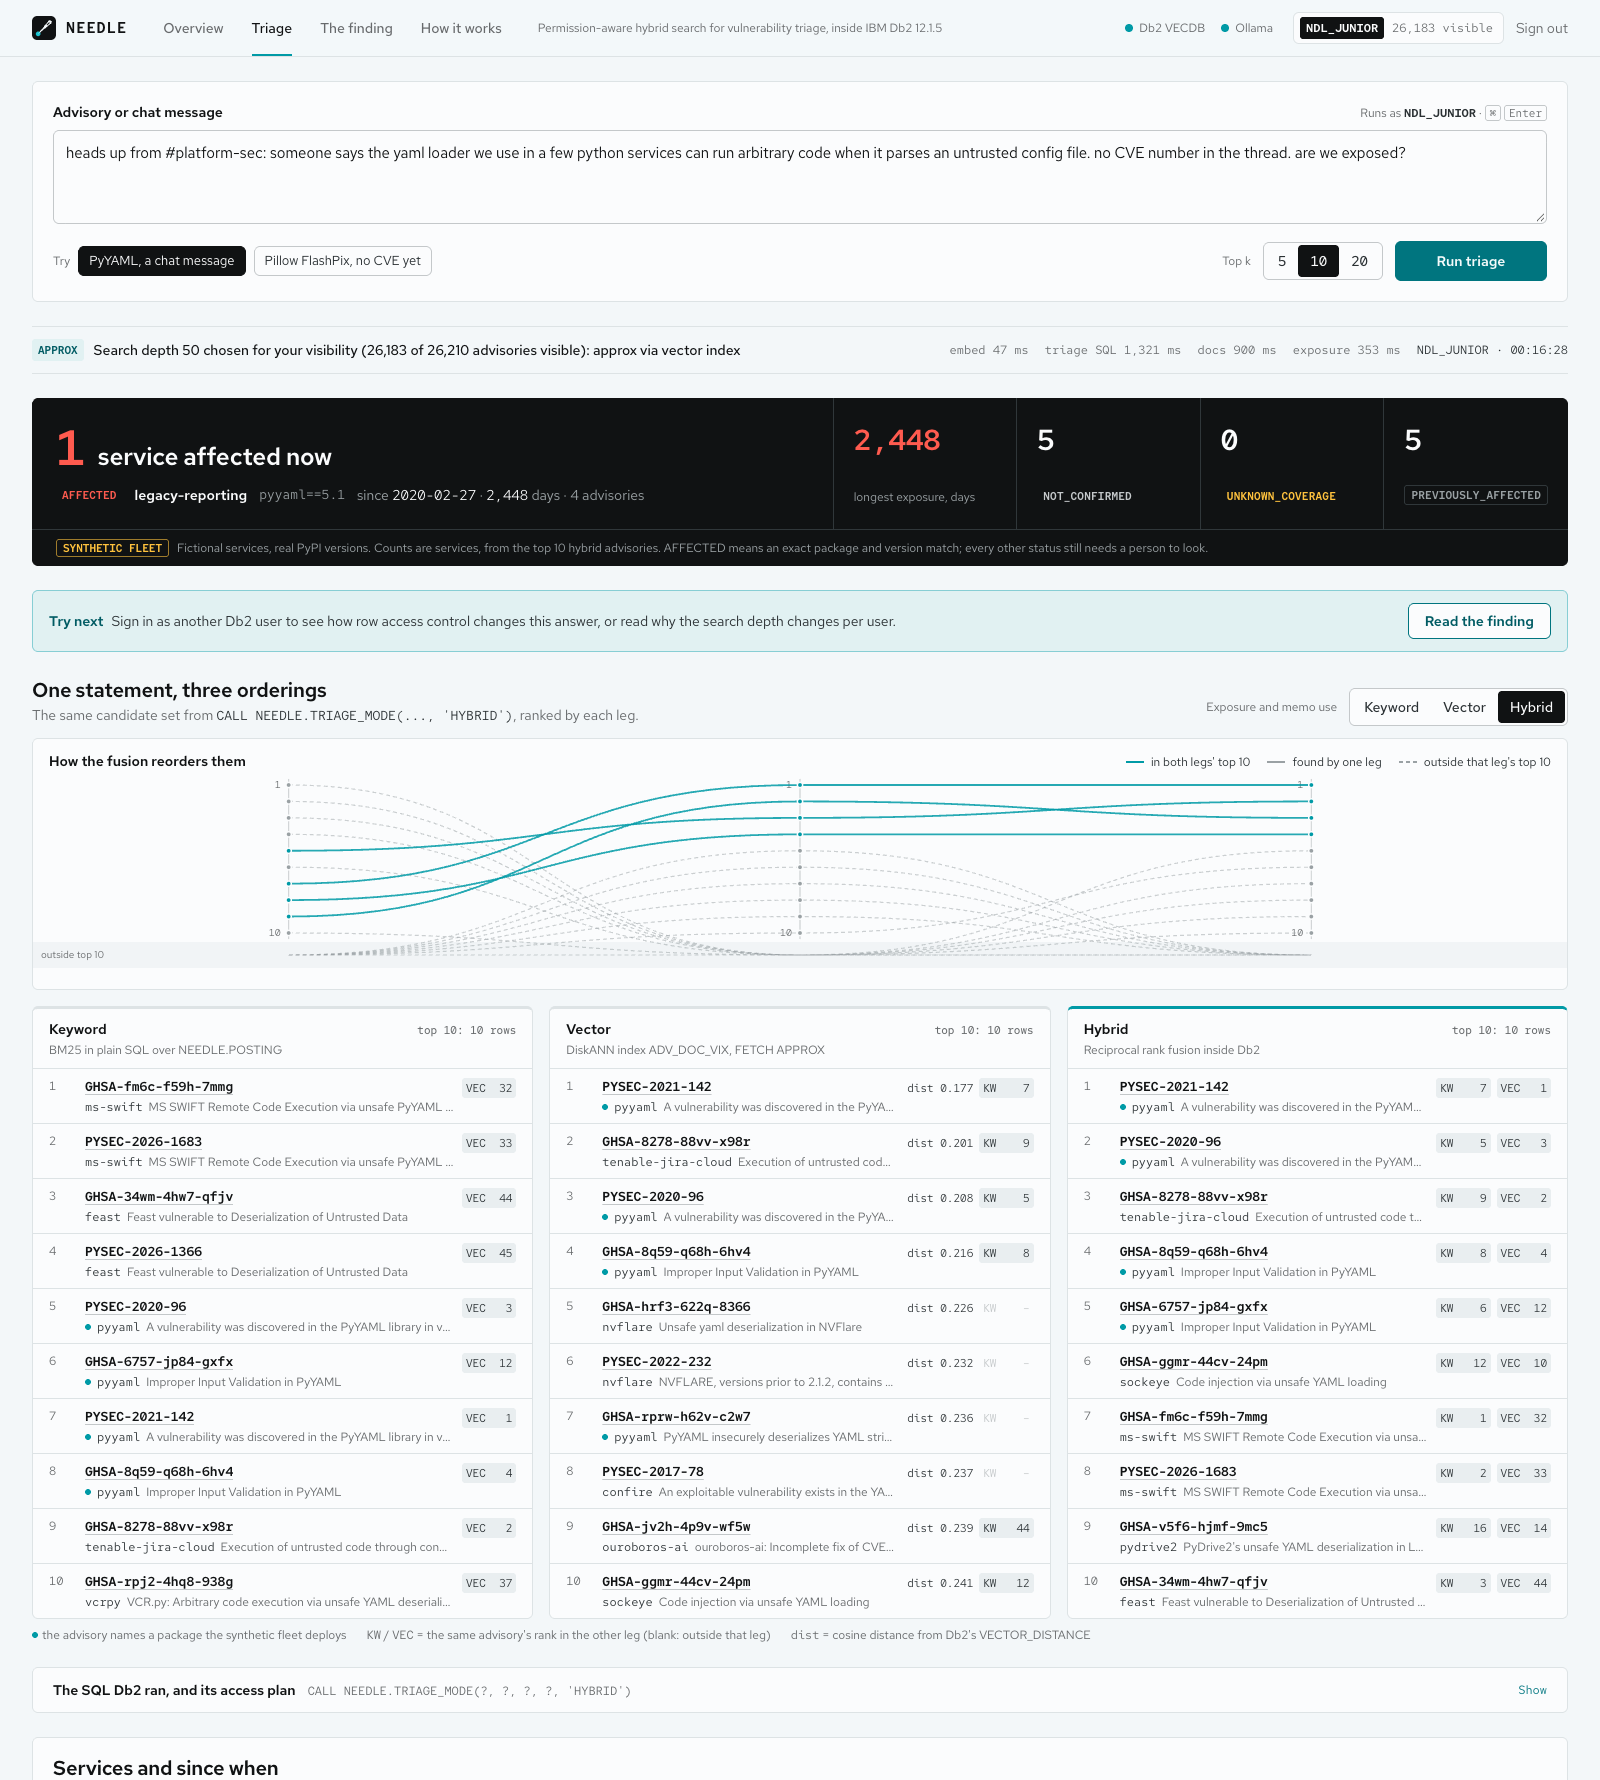
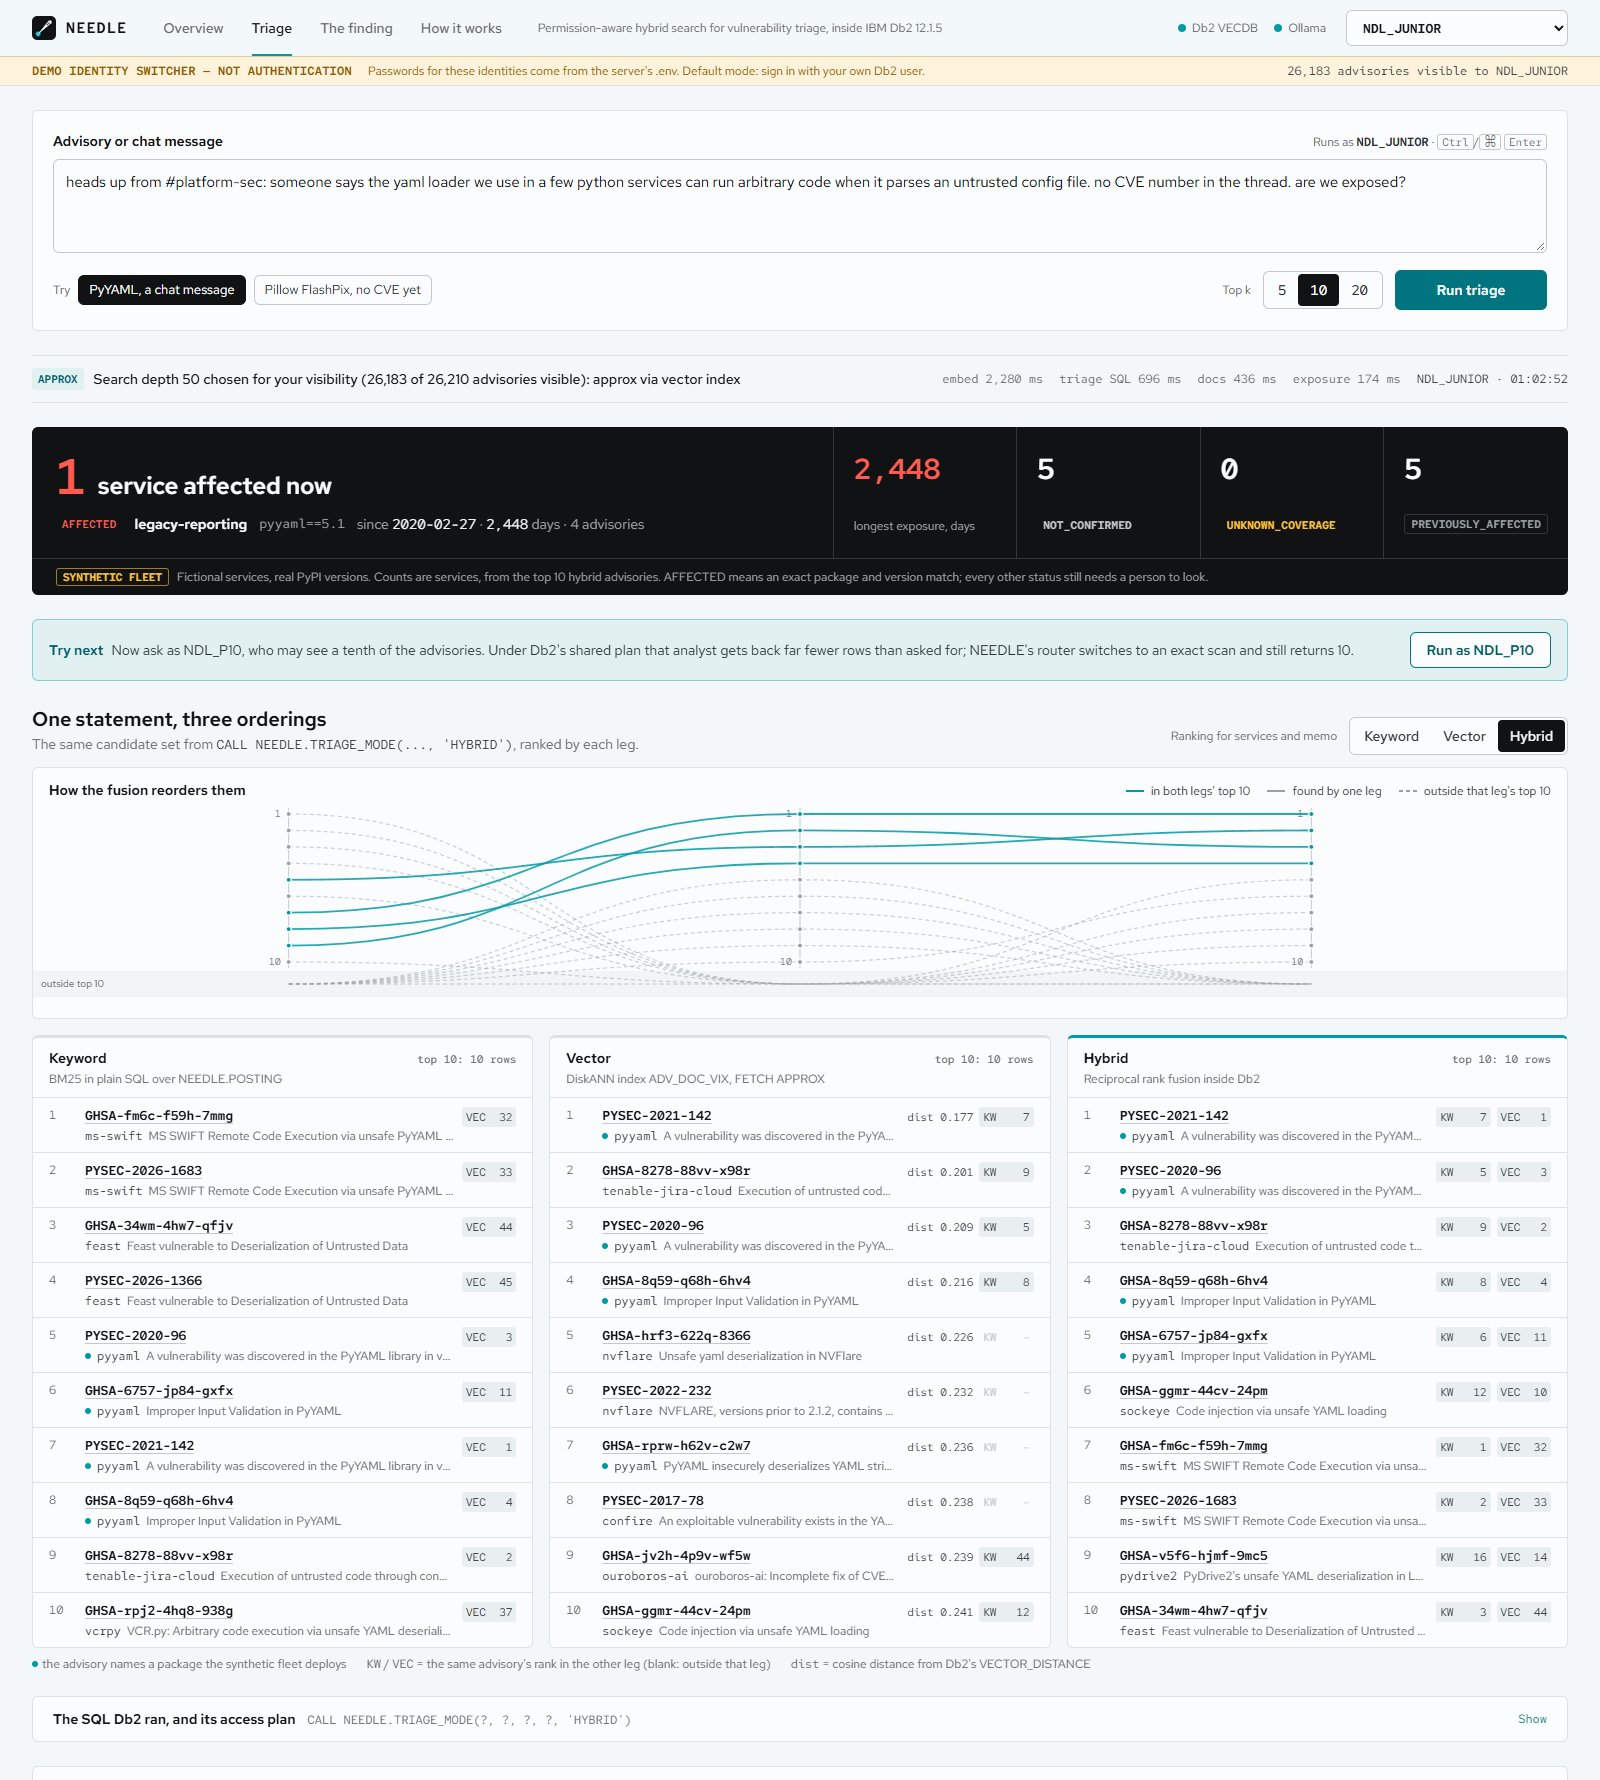
docs(needle): re-captured screenshots on the fixed UI; memo renders bold
- 00-06 and the 3:2 thumbnail re-captured against the live full-corpus Db2 (qwen3:14b memo, 6 kept,
  0 removed; every day count matches the exposure table). Thumbnail text no longer overlaps.
- MemoCard renders the model's **bold** spans as <strong> (no HTML injection) instead of asterisks.
- ui-capture tools wait for /api/health and the compare result; og.mjs picks the right hero element.

Claude-Session: https://claude.ai/code/session_01X8rgWHsjGE3RJ2gTtpwHHQ

diff --git a/needle/web/src/components/MemoCard.tsx b/needle/web/src/components/MemoCard.tsx
@@ -73,13 +73,19 @@ export default function MemoCard({ result, mode, memo, setMemo }: {
   );
 }
 
+/** Renders **bold** spans from the model's Markdown as <strong>; everything else stays plain text (no HTML injection). */
+function Inline({ text }: { text: string }) {
+  const parts = text.split(/\*\*([^*]+)\*\*/g);
+  return <>{parts.map((p, i) => (i % 2 ? <strong key={i} className="font-semibold">{p}</strong> : p))}</>;
+}
+
 function MemoText({ text }: { text: string }) {
   const lines = text.split("\n").map((l) => l.trim()).filter(Boolean);
   const bullets = lines.filter((l) => /^[-*•]\s+/.test(l));
   if (bullets.length === lines.length) {
-    return <ul className="grid list-disc gap-1.5 pl-5">{lines.map((l, i) => <li key={i}>{l.replace(/^[-*•]\s+/, "")}</li>)}</ul>;
+    return <ul className="grid list-disc gap-1.5 pl-5">{lines.map((l, i) => <li key={i}><Inline text={l.replace(/^[-*•]\s+/, "")} /></li>)}</ul>;
   }
-  return <div className="grid gap-2">{lines.map((l, i) => <p key={i}>{l.replace(/^[-*•]\s+/, "• ")}</p>)}</div>;
+  return <div className="grid gap-2">{lines.map((l, i) => <p key={i}><Inline text={l.replace(/^[-*•]\s+/, "• ")} /></p>)}</div>;
 }
 
 function MemoLoading() {

diff --git a/submission_copy/SCREENSHOTS.md b/submission_copy/SCREENSHOTS.md
@@ -3,8 +3,10 @@
 > **Status 2026-11-09 ~22:55 CST: all 8 captured** into `needle/docs/screenshots/` from the new web UI (React +
 > FastAPI) against a fresh full-corpus Db2 in William's Codespace; the old Streamlit JPGs were removed. Differences
 > from the plan below:
-> - 01/02: web UI, signed in as NDL_JUNIOR through the real sign-in form. The memo model is
->   `qwen3:4b-instruct-2507-q4_K_M` (local on the Mac), not qwen3:14b; that run kept 3 sentences and removed 0.
+> - 01/02: web UI as NDL_JUNIOR. The memo model is `qwen3:14b`; that run kept 6 sentences and removed 0.
+> - 2026-11-10: 00-06 and `thumbnail_3x2.jpg` were re-captured against the fixed web UI (local API on :8600 with the
+>   demo identity switcher on, live Db2 and Ollama), so the amber "DEMO IDENTITY SWITCHER" strip shows under the
+>   header in 00, 01 and 04.
 > - 03: the Finding page's "Same query, three Db2 identities" panel (demo switcher). NDL_SENIOR got
 >   GHSA-5x8w-8jj5-q52h at hybrid rank 1 and PYSEC-2026-4330 at rank 2 (both embargoed); NDL_JUNIOR and NDL_P10 got
 >   neither. Live checks: `needle/docs/evidence/web_ui_acceptance.txt`.
@@ -22,9 +24,9 @@ no `.env`, no tokens in a terminal prompt or browser bar).
 
 | # | File name | What it shows | What it proves | Evidence file it matches | Source |
 |---|---|---|---|---|---|
-| 0 | `00_overview_hero.png` | Web UI landing page ("Overview"): the 26,183 public advisories as a 3D point cloud placed by their embeddings (PCA), and a panel for the PyYAML question as a 10% analyst on the shared plan: the vector index fetches the 21 nearest, the permission removes 19 and 2 of 10 rows come back; the NEEDLE router toggle | The finding in one picture, from the real corpus | `docs/evidence/rcac_real.md` (21 candidates, 10% visibility) | **Captured** (web UI, `scripts/build_hero_cloud.py` for the point cloud). |
-| 1 | `01_triage_ranking.png` | Web UI "Triage" page after "Run triage" as NDL_JUNIOR (26,183 visible): the PyYAML chat message, the router line (search depth 50, approx via vector index), the "1 service affected now" slab (legacy-reporting, pyyaml==5.1, since 2020-02-27, 4 advisories) with NOT_CONFIRMED / UNKNOWN_COVERAGE / PREVIOUSLY_AFFECTED counts, the "How the fusion reorders them" rank-flow chart, and the keyword / vector / hybrid columns | Hybrid retrieval runs in one Db2 call (`CALL NEEDLE.TRIAGE_MODE(..., 'HYBRID')`) on the user's own connection | `docs/evidence/app_e2e_NDL_JUNIOR.txt` | **Captured** (web UI, real sign-in form). |
-| 2 | `02_exposure_memo.png` | Web UI "Services and since when" (`SBOM_COMPONENT FOR BUSINESS_TIME AS OF CURRENT DATE`): the exposure timeline (legacy-reporting AFFECTED and still running; the ended windows of other services), the AFFECTED / NOT_CONFIRMED / UNKNOWN_COVERAGE / PREVIOUSLY_AFFECTED tabs, the AFFECTED row with its four advisories; then the "Triage memo" marked VERIFIED (`qwen3:4b-instruct-2507-q4_K_M`, 3 kept, 0 removed), "Removed by the verifier" and the collapsed "unverified" raw model output | Deterministic exposure from an exact SQL join and valid-time history; the memo is checked against the SQL rows | `docs/evidence/app_e2e_NDL_JUNIOR.txt` (4 AFFECTED rows), `docs/evidence/app_llm_memo_offline.txt` | **Captured** with screenshot 1 (same run). The "days exposed" value grows by one per day; that is expected. |
+| 0 | `00_overview_hero.png` | Web UI landing page ("Overview"): the 26,183 public advisories as a 3D point cloud placed by their embeddings (PCA), and a panel for the PyYAML question as a 10% analyst on the shared plan: the vector index fetches a first batch of 21, the permission removes 19 and 2 of 10 rows come back; the NEEDLE router toggle | The finding in one picture, from the real corpus | `docs/evidence/rcac_real.md` (21 candidates, 10% visibility) | **Captured** (web UI, `scripts/build_hero_cloud.py` for the point cloud). |
+| 1 | `01_triage_ranking.png` | Web UI "Triage" page after "Run triage" as NDL_JUNIOR (26,183 visible): the PyYAML chat message, the router line (search depth 50, approx via vector index), the "1 service affected now" slab (legacy-reporting, pyyaml==5.1, since 2020-02-27, 4 advisories) with NOT_CONFIRMED / UNKNOWN_COVERAGE / PREVIOUSLY_AFFECTED counts, the "How the fusion reorders them" rank-flow chart, and the keyword / vector / hybrid columns | Hybrid retrieval runs in one Db2 call (`CALL NEEDLE.TRIAGE_MODE(..., 'HYBRID')`) on the user's own connection | `docs/evidence/app_e2e_NDL_JUNIOR.txt` | **Captured** (web UI, demo identity switcher as NDL_JUNIOR). |
+| 2 | `02_exposure_memo.png` | Web UI "Services and since when" (`SBOM_COMPONENT FOR BUSINESS_TIME AS OF CURRENT DATE`): the exposure timeline (legacy-reporting AFFECTED and still running; the ended windows of other services), the AFFECTED / NOT_CONFIRMED / UNKNOWN_COVERAGE / PREVIOUSLY_AFFECTED tabs, the AFFECTED row with its four advisories; then the "Triage memo" marked CHECKED AGAINST SQL (`qwen3:14b`, 6 kept, 0 removed), "Removed by the verifier" and the collapsed "unverified" raw model output | Deterministic exposure from an exact SQL join and valid-time history; the memo is checked against the SQL rows | `docs/evidence/app_e2e_NDL_JUNIOR.txt` (4 AFFECTED rows), `docs/evidence/app_llm_memo_offline.txt` | **Captured** with screenshot 1 (same run). The "days exposed" value grows by one per day; that is expected. |
 | 3 | `03_rcac_senior_vs_junior.png` | Web UI "Same query, three Db2 identities" panel: the FlashPix query on three separate Db2 connections, NDL_SENIOR (26,210 visible), NDL_JUNIOR (26,183) and NDL_P10 (2,616). Senior: GHSA-5x8w-8jj5-q52h at rank 1 and PYSEC-2026-4330 at rank 2, both marked embargoed. Junior and P10: neither ID. Each column shows 10 of 10 hybrid rows and its router choice (approx 50, approx 50, exact) | Row permissions inside the query hide the embargoed advisories from the other identities; the app does no filtering | `docs/evidence/rcac_demo_case.txt`, `docs/evidence/web_ui_acceptance.txt` | **Captured** (demo switcher). |
 | 4 | `04_rcac_recall_chart.png` | Web UI "The finding" page ("Ask Db2 for 10. Get 2."): the headline tiles (recall@10 0.208 and 2.08 rows at 10% visible, filter factor 0.495, 21 index candidates), then two panels, recall@10 and rows returned of 10 vs the share of rows the analyst may see (10-100%), for the RCAC user on the shared plan, a plain `WHERE` without RCAC, and the NEEDLE router (89 held-out queries) | The headline finding: about 0.21 recall / 2.1 rows at 10% without the router, 1.00 / 10 rows with it | `docs/evidence/rcac_real.md`, `eval/results/rcac_recall_vs_selectivity.json` | **Captured** (web UI, rendered from the JSON). |
 | 5 | `05_explain_vector_index.png` | Web UI SQL panel, "Access plan" tab: two db2exfmt access plans side by side, `FETCH APPROX FIRST 10` with `IXSCAN` on `VECIDX: NEEDLE.ADV_DOC_VIX` (cost 501.8) and `FETCH APPROX FIRST ?` with a table scan (cost 3401.6) | Db2 uses the DiskANN index for a literal k and not for a parameter-marker k, which is why NEEDLE writes k as a validated literal | `docs/evidence/g1_vector_index.md` (sections "APPROX_bound" and "APPROX_k_param") | **Captured** (web UI, from the evidence file). |
